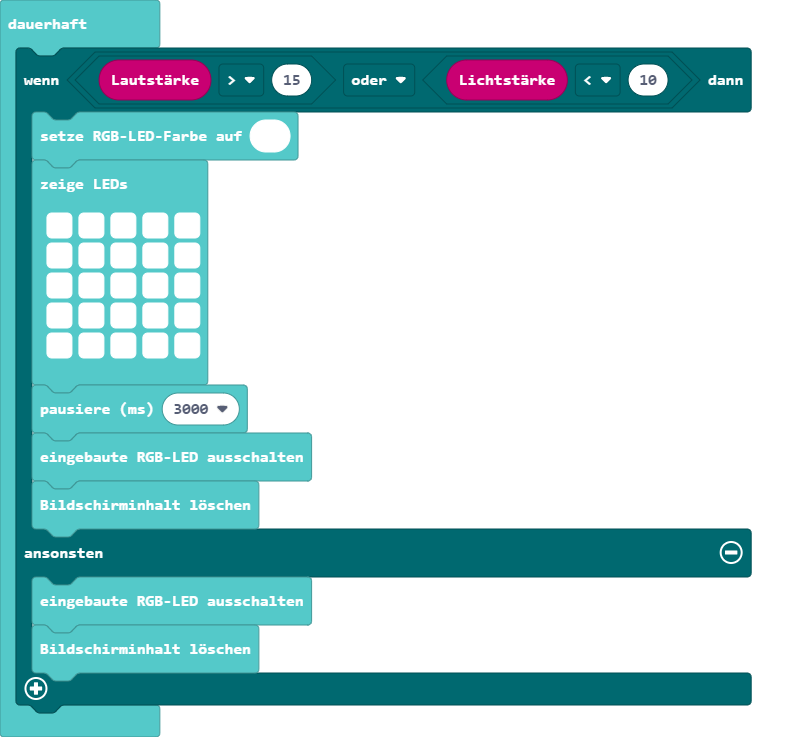
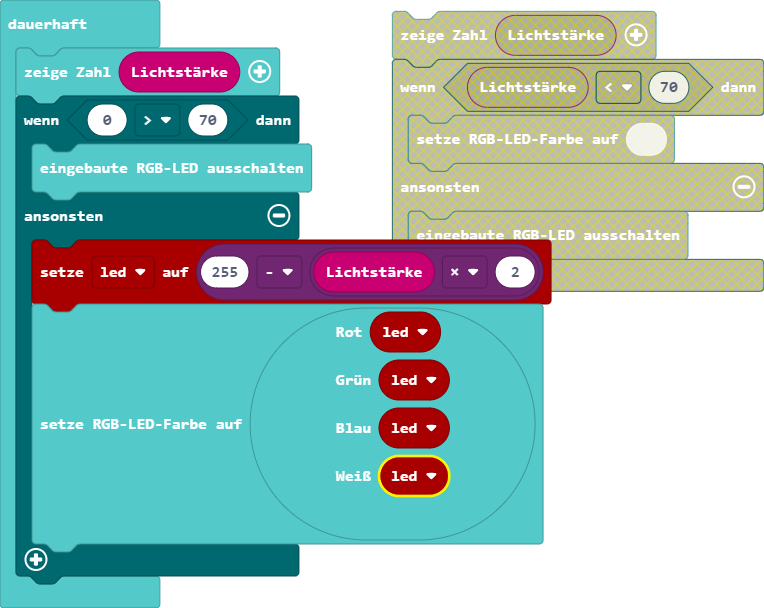
Aktualisiere main.blocks, main.ts

diff --git a/main.ts b/main.ts
@@ -1,18 +1,15 @@
+let led2 = 0
 basic.forever(function () {
-    if (input.soundLevel() > 15 || input.lightLevel() < 10) {
-        basic.setLedColor(0xffffff)
-        basic.showLeds(`
-            # # # # #
-            # # # # #
-            # # # # #
-            # # # # #
-            # # # # #
-            `)
-        basic.pause(3000)
+    basic.showNumber(input.lightLevel())
+    if (0 > 70) {
         basic.turnRgbLedOff()
-        basic.clearScreen()
     } else {
-        basic.turnRgbLedOff()
-        basic.clearScreen()
+        led2 = 255 - input.lightLevel() * 2
+        basic.setLedColor(basic.rgbw(
+        led2,
+        led2,
+        led2,
+        led2
+        ))
     }
 })
